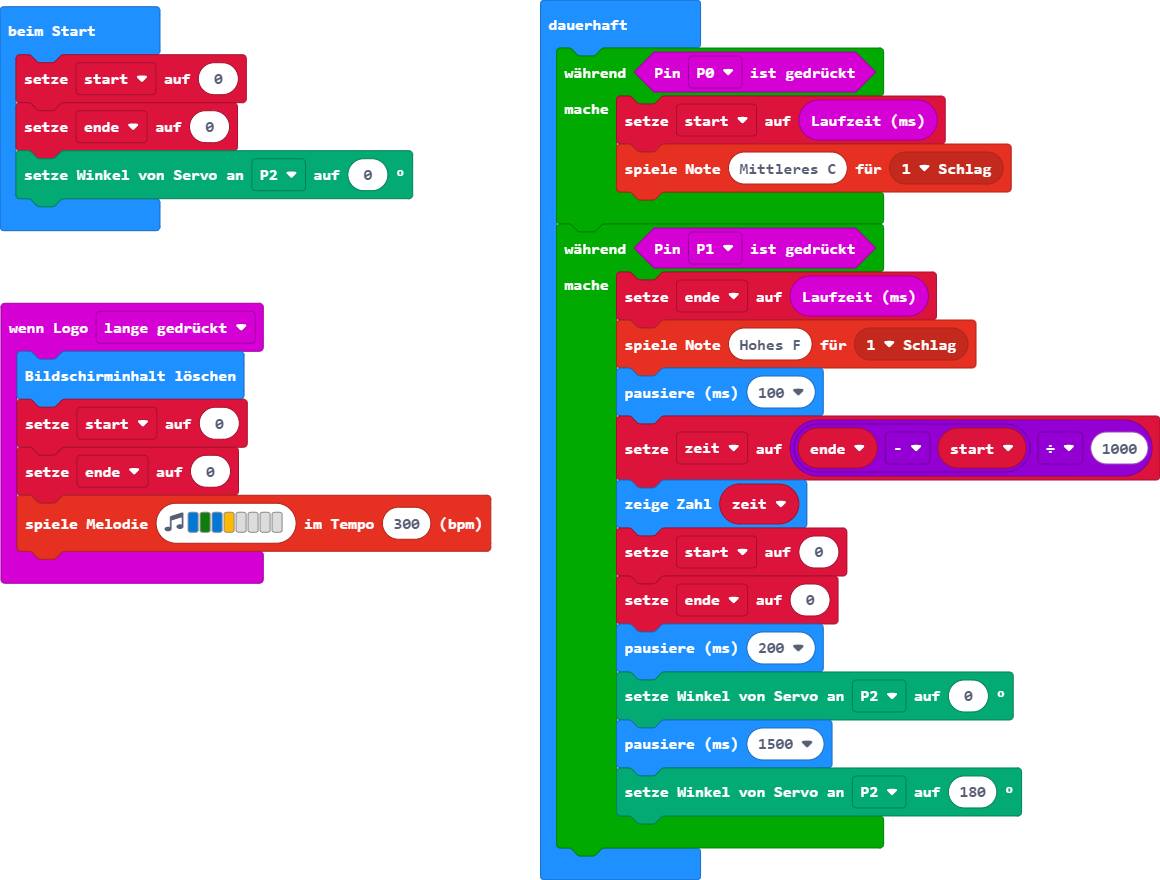
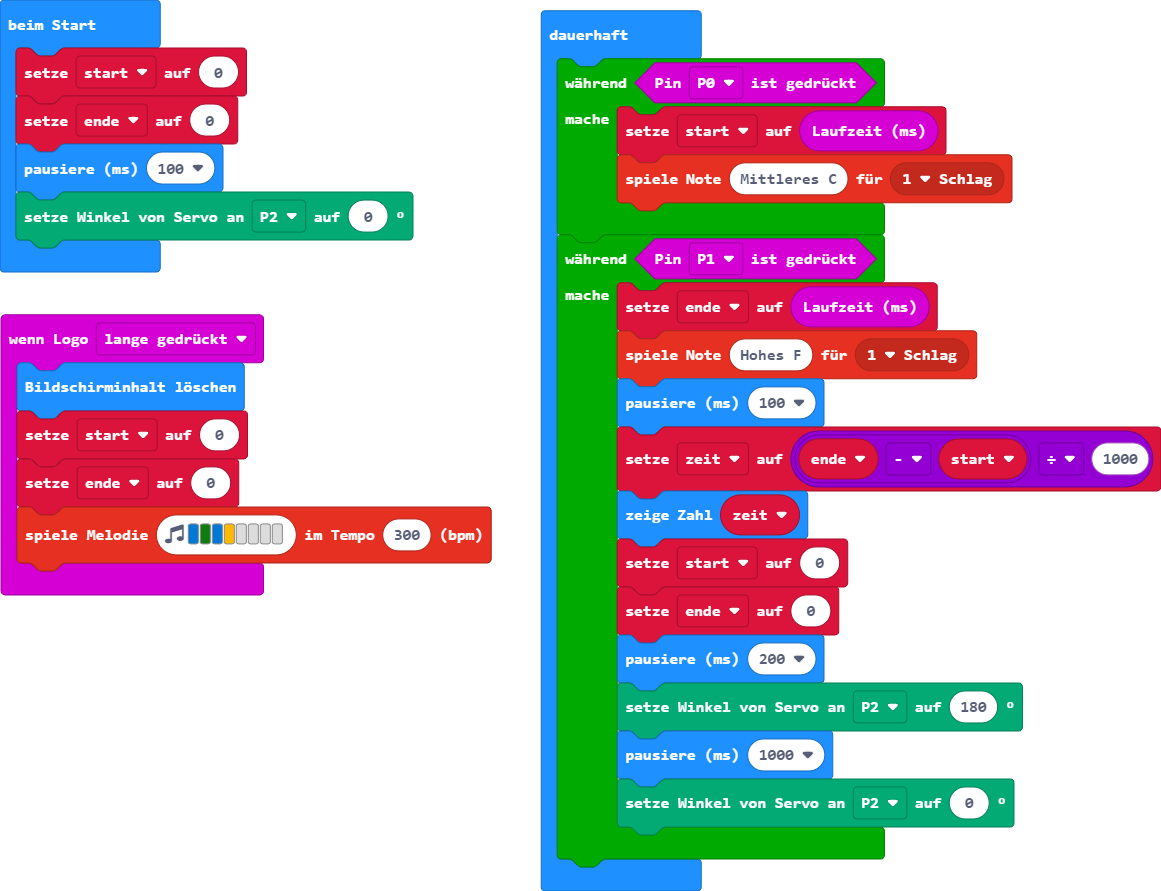
Aktualisiere main.blocks, main.ts

diff --git a/main.ts b/main.ts
@@ -9,6 +9,7 @@ let ende = 0
 let start = 0
 start = 0
 ende = 0
+basic.pause(100)
 servos.P2.setAngle(0)
 basic.forever(function () {
     while (input.pinIsPressed(TouchPin.P0)) {
@@ -24,8 +25,8 @@ basic.forever(function () {
         start = 0
         ende = 0
         basic.pause(200)
-        servos.P2.setAngle(0)
-        basic.pause(1500)
         servos.P2.setAngle(180)
+        basic.pause(1000)
+        servos.P2.setAngle(0)
     }
 })
